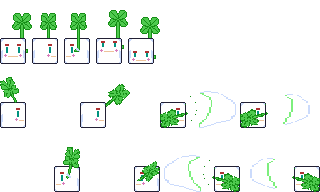
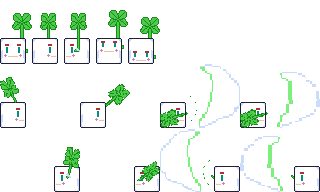
idk

diff --git a/src/game.cpp b/src/game.cpp
@@ -99,16 +99,16 @@ Game::Game() {
 
 void Game::draw_menu() {
 	if(screen == MAIN_MENU){
-		SDL_Rect dst = {screen_width/2 - 160, screen_height/2 - 64, 160, 32};
+		SDL_Rect dst = {screen_width/2 - 176, screen_height/2 - 64, 160, 32};
 		SDL_RenderCopy(renderer, start_texture, NULL, &dst);
 		dst = {screen_width/2 - 192, screen_height/2 - 12, 224, 32};
 		SDL_RenderCopy(renderer, options_texture, NULL, &dst);
 		dst = {screen_width/2 - 144, screen_height/2 + 40, 128, 32};
 		SDL_RenderCopy(renderer, quit_texture, NULL, &dst);
 	}else if(screen == PAUSED){
-		SDL_Rect dst = {screen_width/2 - 176, screen_height/2 - 64, 160, 32};
+		SDL_Rect dst = {screen_width/2 - 144, screen_height/2 - 64, 160, 32};
 		SDL_RenderCopy(renderer, resume_texture, NULL, &dst);
-		dst = {screen_width/2 - 208, screen_height/2 - 12, 224, 32};
+		dst = {screen_width/2 - 188, screen_height/2 - 12, 224, 32};
 		SDL_RenderCopy(renderer, main_menu_texture, NULL, &dst);
 	}
 }

diff --git a/src/player.cpp b/src/player.cpp
@@ -4,7 +4,7 @@
 
 Player::Player():
 	//x,y,w,h,num_frames,duration
-	attack(0, 64, 80, 64, 4, 12){
+	attack(0, 64, 80, 64, 4, 16){
 	this->src = {
 		.x = 0,
 		.y = 0,
